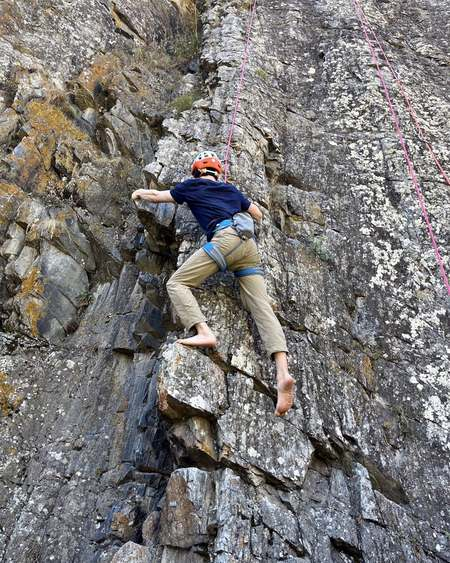
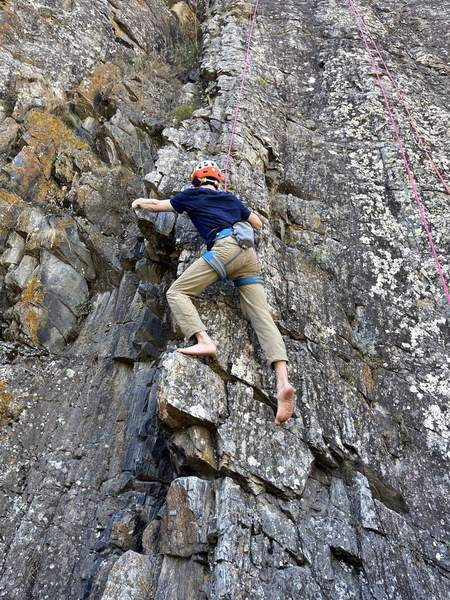
Collage: rock-route photo becomes the climbing group's span-2 hero
Per Igor: don't crop the rock-route shot, colour-correct only, and give it
more real estate next to climb-06; crop climb-06 further to a vertical.

- climb-04-crimp: re-processed from l.jpg — rotate upright + autocontrast,
  NO crop (full 3:4 frame). New --34 ratio class + --span2 (grid-column:
  span 2 at >=900px) so it reads as the group hero. Moves to DOM position 5,
  directly left of climb-06-wide. Master v2 in Claude outputs/.
- climb-06-wide: re-cropped 3:2 -> 4:5 (right-biased x0.70, whole figure +
  mats kept) "seen more vertically". Figure class --32 -> --45. Master v5.
- climb-03-feet: dropped (last climbing stand-in, a stock swing-set frame).
  Shotlist allows a group of five; the climbing group is now fully real.
- style.css: new .collage__fig--34 (3/4) and .collage__fig--span2. Span is
  grid placement, not transform — reveal channel untouched.

Verified at 1280 / 768 / 375: no horizontal overflow, span active only at
>=900px. Live artifact still on hold (en-*, chess-* are stand-ins).

diff --git a/index.html b/index.html
@@ -953,26 +953,6 @@ if (location.hash === '#collage') document.documentElement.classList.add('collag
           </div>
           <figcaption data-en="At the belay loop, before setting off." data-ru="У страховочной петли, перед стартом.">At the belay loop, before setting off.</figcaption>
         </figure>
-        <figure class="collage__fig collage__fig--32 reveal is-in">
-          <div class="collage__slot">
-            <img data-src="assets/collage/climb-03-feet@2x.jpg"
-                 data-srcset="assets/collage/climb-03-feet.jpg 450w, assets/collage/climb-03-feet@2x.jpg 900w"
-                 sizes="(min-width: 900px) 33vw, (min-width: 600px) 50vw, 100vw"
-                 width="900" height="600" decoding="async" alt="">
-            <noscript><img src="assets/collage/climb-03-feet@2x.jpg" srcset="assets/collage/climb-03-feet.jpg 450w, assets/collage/climb-03-feet@2x.jpg 900w" sizes="(min-width: 900px) 33vw, (min-width: 600px) 50vw, 100vw" width="900" height="600" loading="lazy" decoding="async" alt=""></noscript>
-          </div>
-          <figcaption data-en="Feet placed before the reach." data-ru="Ноги ставятся до выхода рукой.">Feet placed before the reach.</figcaption>
-        </figure>
-        <figure class="collage__fig collage__fig--45 reveal is-in">
-          <div class="collage__slot">
-            <img data-src="assets/collage/climb-04-crimp@2x.jpg"
-                 data-srcset="assets/collage/climb-04-crimp.jpg 450w, assets/collage/climb-04-crimp@2x.jpg 900w"
-                 sizes="(min-width: 900px) 33vw, (min-width: 600px) 50vw, 100vw"
-                 width="900" height="1125" decoding="async" alt="Igor Shatsev climbing an outdoor rock face on a top rope, reaching for a hold.">
-            <noscript><img src="assets/collage/climb-04-crimp@2x.jpg" srcset="assets/collage/climb-04-crimp.jpg 450w, assets/collage/climb-04-crimp@2x.jpg 900w" sizes="(min-width: 900px) 33vw, (min-width: 600px) 50vw, 100vw" width="900" height="1125" loading="lazy" decoding="async" alt="Igor Shatsev climbing an outdoor rock face on a top rope, reaching for a hold."></noscript>
-          </div>
-          <figcaption data-en="On rock, mid-route." data-ru="На скале, посреди маршрута.">On rock, mid-route.</figcaption>
-        </figure>
         <figure class="collage__fig collage__fig--11 reveal is-in">
           <div class="collage__slot">
             <img data-src="assets/collage/climb-05-rest@2x.jpg"
@@ -983,13 +963,23 @@ if (location.hash === '#collage') document.documentElement.classList.add('collag
           </div>
           <figcaption data-en="At the crag, between climbs." data-ru="У скалы, между попытками.">At the crag, between climbs.</figcaption>
         </figure>
-        <figure class="collage__fig collage__fig--32 reveal is-in">
+        <figure class="collage__fig collage__fig--34 collage__fig--span2 reveal is-in">
+          <div class="collage__slot">
+            <img data-src="assets/collage/climb-04-crimp@2x.jpg"
+                 data-srcset="assets/collage/climb-04-crimp.jpg 450w, assets/collage/climb-04-crimp@2x.jpg 900w"
+                 sizes="(min-width: 900px) 60vw, (min-width: 600px) 100vw, 100vw"
+                 width="900" height="1200" decoding="async" alt="Igor Shatsev climbing an outdoor rock face on a top rope, reaching for a hold.">
+            <noscript><img src="assets/collage/climb-04-crimp@2x.jpg" srcset="assets/collage/climb-04-crimp.jpg 450w, assets/collage/climb-04-crimp@2x.jpg 900w" sizes="(min-width: 900px) 60vw, (min-width: 600px) 100vw, 100vw" width="900" height="1200" loading="lazy" decoding="async" alt="Igor Shatsev climbing an outdoor rock face on a top rope, reaching for a hold."></noscript>
+          </div>
+          <figcaption data-en="On rock, mid-route." data-ru="На скале, посреди маршрута.">On rock, mid-route.</figcaption>
+        </figure>
+        <figure class="collage__fig collage__fig--45 reveal is-in">
           <div class="collage__slot">
             <img data-src="assets/collage/climb-06-wide@2x.jpg"
                  data-srcset="assets/collage/climb-06-wide.jpg 450w, assets/collage/climb-06-wide@2x.jpg 900w"
                  sizes="(min-width: 900px) 33vw, (min-width: 600px) 50vw, 100vw"
-                 width="900" height="600" decoding="async" alt="Igor Shatsev mid-move on a steep overhanging bouldering wall, shot from the floor.">
-            <noscript><img src="assets/collage/climb-06-wide@2x.jpg" srcset="assets/collage/climb-06-wide.jpg 450w, assets/collage/climb-06-wide@2x.jpg 900w" sizes="(min-width: 900px) 33vw, (min-width: 600px) 50vw, 100vw" width="900" height="600" loading="lazy" decoding="async" alt="Igor Shatsev mid-move on a steep overhanging bouldering wall, shot from the floor."></noscript>
+                 width="900" height="1125" decoding="async" alt="Igor Shatsev mid-move on a steep overhanging bouldering wall, shot from the floor.">
+            <noscript><img src="assets/collage/climb-06-wide@2x.jpg" srcset="assets/collage/climb-06-wide.jpg 450w, assets/collage/climb-06-wide@2x.jpg 900w" sizes="(min-width: 900px) 33vw, (min-width: 600px) 50vw, 100vw" width="900" height="1125" loading="lazy" decoding="async" alt="Igor Shatsev mid-move on a steep overhanging bouldering wall, shot from the floor."></noscript>
           </div>
           <figcaption data-en="The board, from the floor." data-ru="Доска — снизу, от пола.">The board, from the floor.</figcaption>
         </figure>

diff --git a/style.css b/style.css
@@ -1074,6 +1074,7 @@ html.js .origin__panel-item.is-active { opacity: 1; }
 .collage__fig--45 .collage__slot { aspect-ratio: 4 / 5; }
 .collage__fig--32 .collage__slot { aspect-ratio: 3 / 2; }
 .collage__fig--11 .collage__slot { aspect-ratio: 1 / 1; }
+.collage__fig--34 .collage__slot { aspect-ratio: 3 / 4; }
 
 /* Real photo fills the ratio box the placeholder already reserved — the 1px
    hairline on .collage__slot stays as the frame, the padding (there for the
@@ -1111,10 +1112,14 @@ html.js .origin__panel-item.is-active { opacity: 1; }
   }
 }
 
-/* three-up on desktop — the count each domain group is sized for. Still a
-   plain grid: no spanning, no margins, no transform. */
+/* three-up on desktop — the count each domain group is sized for. Plain grid,
+   no margins, no transform. One sanctioned exception: .collage__fig--span2
+   takes two column tracks so a single hero frame reads larger than its
+   neighbours (climbing group, the rock-route shot beside "from the floor").
+   This is grid placement, not a transform, so the reveal channel stays free. */
 @media (min-width: 900px) {
   .collage--group { grid-template-columns: repeat(3, 1fr); }
+  .collage__fig--span2 { grid-column: span 2; }
 }
 
 /* ---------- collage view ----------

diff --git a/assets/collage/PLACEHOLDERS.md b/assets/collage/PLACEHOLDERS.md
@@ -11,17 +11,21 @@ Every file is grayscaled at display time by `--collage-filter`; none carries a
 caption claim (the `<figcaption>` describes the *intended* shot, not the
 stand-in) and every `<img alt>` is empty on purpose.
 
-**Exception — `climb-01-board`, `climb-06-wide`, `climb-05-rest`,
-`climb-04-crimp`, `climb-02-chalk` are real (2026-09-07).** Igor supplied five
-real photographs of himself:
+**Exception — the entire climbing group is real (2026-09-07).**
+`climb-01-board`, `climb-02-chalk`, `climb-05-rest`, `climb-04-crimp`,
+`climb-06-wide` are all photographs Igor supplied; the sixth climbing
+stand-in, `climb-03-feet`, was **dropped** (the group now ships 5, which
+`collage-shotlist.md` allows). Details:
 - `climb-01-board` — seated at the foot of an indoor bouldering wall, first
   climbing 4:5 slot (crop-to-4:5 + gentle autocontrast, no colour). The frame
   differs from this slot's shot-list intent (a mid-move board shot).
-- `climb-06-wide` — mid-move on a steep overhanging wall, shot from the floor,
-  the second climbing 3:2 slot. From `IMG_8681.CR2` (Canon RAW, 5472×3648):
-  tight 3:2 re-crop on the figure, autocontrast + a small exposure/contrast
-  lift because the gym frame was underexposed, no colour. Matches this slot's
-  existing caption ("The board, from the floor.") exactly.
+- `climb-06-wide` — mid-move on a steep overhanging wall, shot from the floor.
+  From `IMG_8681.CR2` (Canon RAW, 5472×3648), autocontrast + a small
+  exposure/contrast lift (the gym frame was underexposed), no colour.
+  **Re-cropped 2026-09-07** from 3:2 to **4:5** ("seen more vertically",
+  Igor's call), right-biased so the whole figure and the mats stay in frame;
+  the figure class moved `--32` → `--45`. Caption unchanged ("The board,
+  from the floor.").
 - `climb-05-rest` — Igor at the foot of an **outdoor crag**, mid-gesture,
   two partners nearby (backs to camera, not identifiable). From a low-res
   phone photo (`climbingl.jpg`, 960×1280); 1:1 crop on Igor, gentle level,
@@ -32,11 +36,15 @@ real photographs of himself:
 
 - `climb-04-crimp` — Igor on an **outdoor rock face**, on a top rope,
   mid-route, reaching for a hold. From a phone photo delivered rotated 90°
-  (`l.jpg`, 1280×960); rotated upright, crop-to-4:5 on the figure, gentle
-  autocontrast, no colour. This diverges from the slot's shot-list intent
-  (a chalked-hand crimp close-up pairing with the chess "hands" tile); the
-  slug keeps `-crimp` to avoid churn. Caption changed to "On rock,
-  mid-route."
+  (`l.jpg`, 1280×960); rotated upright, **not cropped** (Igor's call — full
+  3:4 frame kept), gentle autocontrast, no colour. This diverges from the
+  slot's shot-list intent (a chalked-hand crimp close-up pairing with the
+  chess "hands" tile); the slug keeps `-crimp` to avoid churn. Caption
+  changed to "On rock, mid-route." **This is the climbing group's hero
+  frame** — 3:4 (`--34`) and spanning two columns (`--span2`) on desktop, so
+  it reads larger than its neighbours; it sits beside `climb-06-wide` in the
+  last row. DOM order within the group is now 01, 02, 05, 04, 06 (the NN
+  slugs no longer track reading order — the swap avoids renaming four files).
 - `climb-02-chalk` — a hand at the harness belay loop, threading the rope
   before a climb. From a phone photo (`climbing.jpg`, 720×1280); 1:1 crop on
   the hand + belay loop, +20% brightness / small contrast lift (frame was
@@ -44,12 +52,13 @@ real photographs of himself:
   (chalking up from a chalk bag); slug keeps `-chalk`. Caption changed to
   "At the belay loop, before setting off."
 
-All five carry real, claim-free `<figcaption>` / `<img alt>` text and keep
-their slot's locked ratio + hard-coded `--45` / `--32` / `--11` class (no
-layout shift). See `BUILD-NOTES.md` → "Collage — first real photos". The
-climbing group now runs 5 real / 1 placeholder (`climb-03-feet`); the other
-12 collage frames remain the stand-ins below, so the artifact hold still
-stands.
+All five carry real, claim-free `<figcaption>` / `<img alt>` text. Ratios are
+still hard-coded per figure, but the set in play is now `--45` / `--11` /
+`--34` (+`--span2` on the hero); `--32` is retired from the climbing group.
+See `BUILD-NOTES.md` → "Collage — first real photos" and "Collage — rock-route
+hero". The climbing group is **fully real** now; the other 12 collage frames
+(all `en-*`, all `chess-*`) remain the stand-ins below, so the artifact hold
+still stands.
 
 ## en-02 … en-05 — Openverse, CC0 1.0 / public-domain
 
@@ -60,11 +69,12 @@ stands.
 | en-04-correction | `b73d6a7e-37f4-4f5e-9468-5ac1d0ef30fe` | Helloquence | https://stocksnap.io/photo/writing-papers-Y01VDYAX63 |
 | en-05-markup | `281b6a9b-acdb-48bf-9ca7-f699d191b73b` | — | https://www.rawpixel.com/image/5903740/ |
 
-## en-06 + chess-* + climb-* — LoremFlickr (Flickr Creative Commons proxy)
+## en-06 + chess-* — LoremFlickr (Flickr Creative Commons proxy)
 
-Openverse rate-limited the batch partway through, so the remaining thirteen
-came from `loremflickr.com`, which serves tag-matched images drawn from
-Flickr's Creative-Commons pool. LoremFlickr does not return per-image
+Openverse rate-limited the batch partway through, so the rest came from
+`loremflickr.com`, which serves tag-matched images drawn from Flickr's
+Creative-Commons pool. (The climbing stand-ins that were also from here are
+all gone now — replaced by real photos or, for `climb-03-feet`, dropped.) LoremFlickr does not return per-image
 attribution through the proxy; because these files do not ship, the collective
 source note here stands in for it. If any of these somehow needs to outlive the
 shoot, pull the real attribution or swap it for a CC0 image first.
@@ -79,4 +89,3 @@ shoot, pull the real attribution or swap it for a CC0 image first.
 | chess-04-reset | chess,pieces | 304 |
 | chess-05-pieces | chess,knight | 305 |
 | chess-06-notation | chess,game | 12 |
-| climb-03-feet | climbing,shoes | 15 |

diff --git a/BUILD-NOTES.md b/BUILD-NOTES.md
@@ -2391,6 +2391,73 @@ that `climb-04-crimp` is in fact him (helmet + angle hide the face).
 **Live artifact still not republished** — `climb-03-feet`, all `en-*`, all
 `chess-*` remain stand-ins, so the Collage Stage 3 hold stands.
 
+> Superseded a few hours later: `climb-04-crimp` is no longer cropped and is
+> now the group's span-2 hero; `climb-06-wide` was re-cropped 3:2 → 4:5;
+> `climb-03-feet` was dropped. See the next section.
+
+## Collage — rock-route hero (2026-09-07)
+
+Same day, Igor: don't crop the rock-route photo, colour-correct it only, and
+give it "more real estate" next to `climb-06-wide`; and crop `climb-06-wide`
+"even further so it's seen more vertically". Net effect: the climbing group
+loses its last stand-in and its bottom row becomes a large vertical of Igor
+on real rock beside a taller crop of the overhang board.
+
+### `climb-04-crimp` — uncropped, span-2 hero
+
+- **Re-processed from `~/Downloads/l.jpg`**: `rotate(-90, expand=True)` to
+  upright, `autocontrast(cutoff=0.5)`, **no crop** — the full 960×1280 (3:4)
+  frame. Master `Claude outputs/climb-04-crimp_v2_edited_highres.jpg`.
+- **Derived** `climb-04-crimp.jpg` 450×600 (q66) and `@2x` 900×1200 (q58,
+  278 KB — rock texture, comparable to `climb-05-rest`; matters only once the
+  hold lifts).
+- **Figure** class `--45` → **`--34`** (new ratio, `aspect-ratio: 3/4`) plus
+  **`--span2`** (`grid-column: span 2` at ≥900px only). It moves to DOM
+  position 5 so it sits directly left of `climb-06-wide`; group order is now
+  `01, 02, 05, 04, 06` (NN slugs stop tracking reading order — the reorder is
+  block moves, no file renames).
+- Caption unchanged from the earlier pass ("On rock, mid-route.").
+
+### `climb-06-wide` — re-cropped to 4:5
+
+- From the existing master `Claude outputs/climb-06-wide_v4_edited_highres.jpg`
+  (4050×2700): vertical crop to **4:5**, x-offset 0.70 (right-biased) so the
+  whole diagonal figure and the floor mats stay in; no other grade change.
+  New master `…_v5_edited_highres.jpg`.
+- **Derived** `climb-06-wide.jpg` 450×563 and `@2x` 900×1125 (q72, 89 KB).
+- **Figure** class `--32` → `--45`. `--32` is now unused in the climbing
+  group. Caption unchanged ("The board, from the floor." — still shot from
+  the floor).
+
+### `climb-03-feet` — dropped
+
+The last climbing stand-in (a LoremFlickr swing-set frame). Removed the
+`<figure>` and both JPEGs. `collage-shotlist.md` allows a group of five, and
+this makes the **whole climbing group real**. Its 3:2 slot is not
+backfilled — the group is `01(4:5) 02(1:1) 05(1:1)` over
+`04(3:4, span-2) 06(4:5)`.
+
+### CSS
+
+One new invariant break, noted in `style.css`: the ≥900px rule now has
+`.collage__fig--span2 { grid-column: span 2 }`. Grid placement, not a
+transform, so the reveal channel is untouched (`CLAUDE.md` motion rule holds).
+
+### Verified (localhost:8010, pane hidden → DOM-measured)
+
+- 1280px: row 1 = three tiles at y-equal; row 2 = span-2 hero (759×1047)
+  at x64 with `climb-06-wide` (365×492) at x851 immediately right. No
+  horizontal overflow (`scrollWidth == clientWidth == 1280`).
+- 375px and 768px: no overflow; `--span2` inactive below 900px, hero renders
+  as a single full-width 3:4 tile.
+- `climb-04-crimp@2x` and `climb-06-wide@2x` render correct (direct GET +
+  grayscale sim); `climb-03-feet` now 404s.
+- No new animation; `prefers-reduced-motion` path unaffected.
+
+**Still Igor's to confirm:** same as above (captions/alt, and that the
+rock-route climber is him). **Artifact still on hold** — `en-*` and `chess-*`
+are all stand-ins.
+
 ## Verified
 
 - No horizontal overflow at 1440px or 375px (`scrollWidth` equals `innerWidth`
